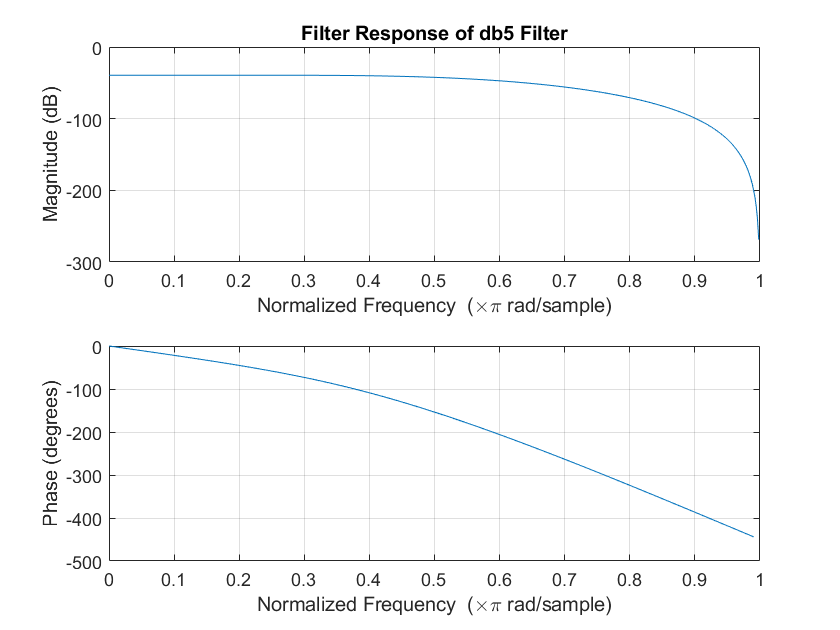
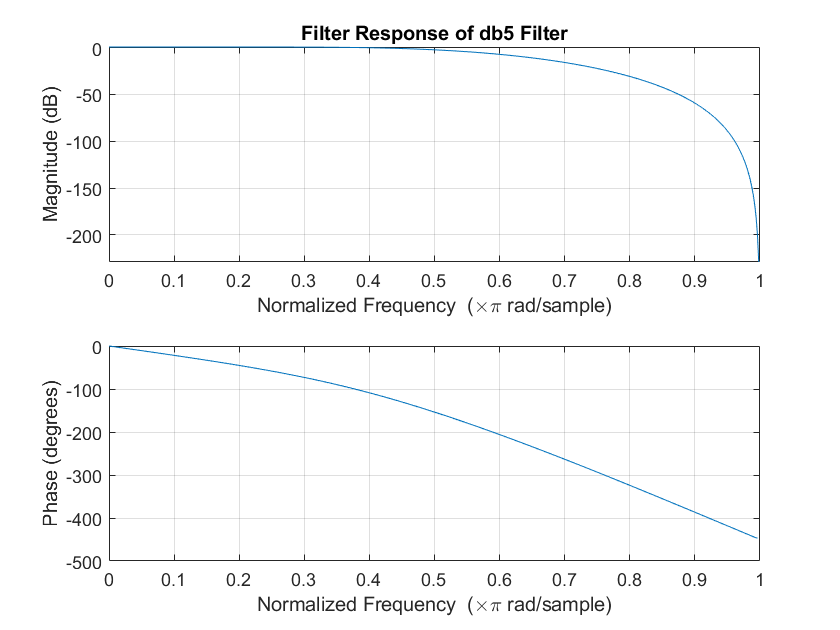
final project upload

diff --git a/assignment-2/waveletfilterresponse.m b/assignment-2/waveletfilterresponse.m
@@ -3,7 +3,7 @@ function [filter]= waveletfilterresponse(wname,fs)
 % corresponding wavelet filter, wname 
 [~,~,h,~] = wfilters(wname);
 figure;
-freqz(h,fs); 
+freqz(100*h,fs); 
 title(strcat("Filter Response of "+wname+" Filter"));
 filter = h; 
 end
